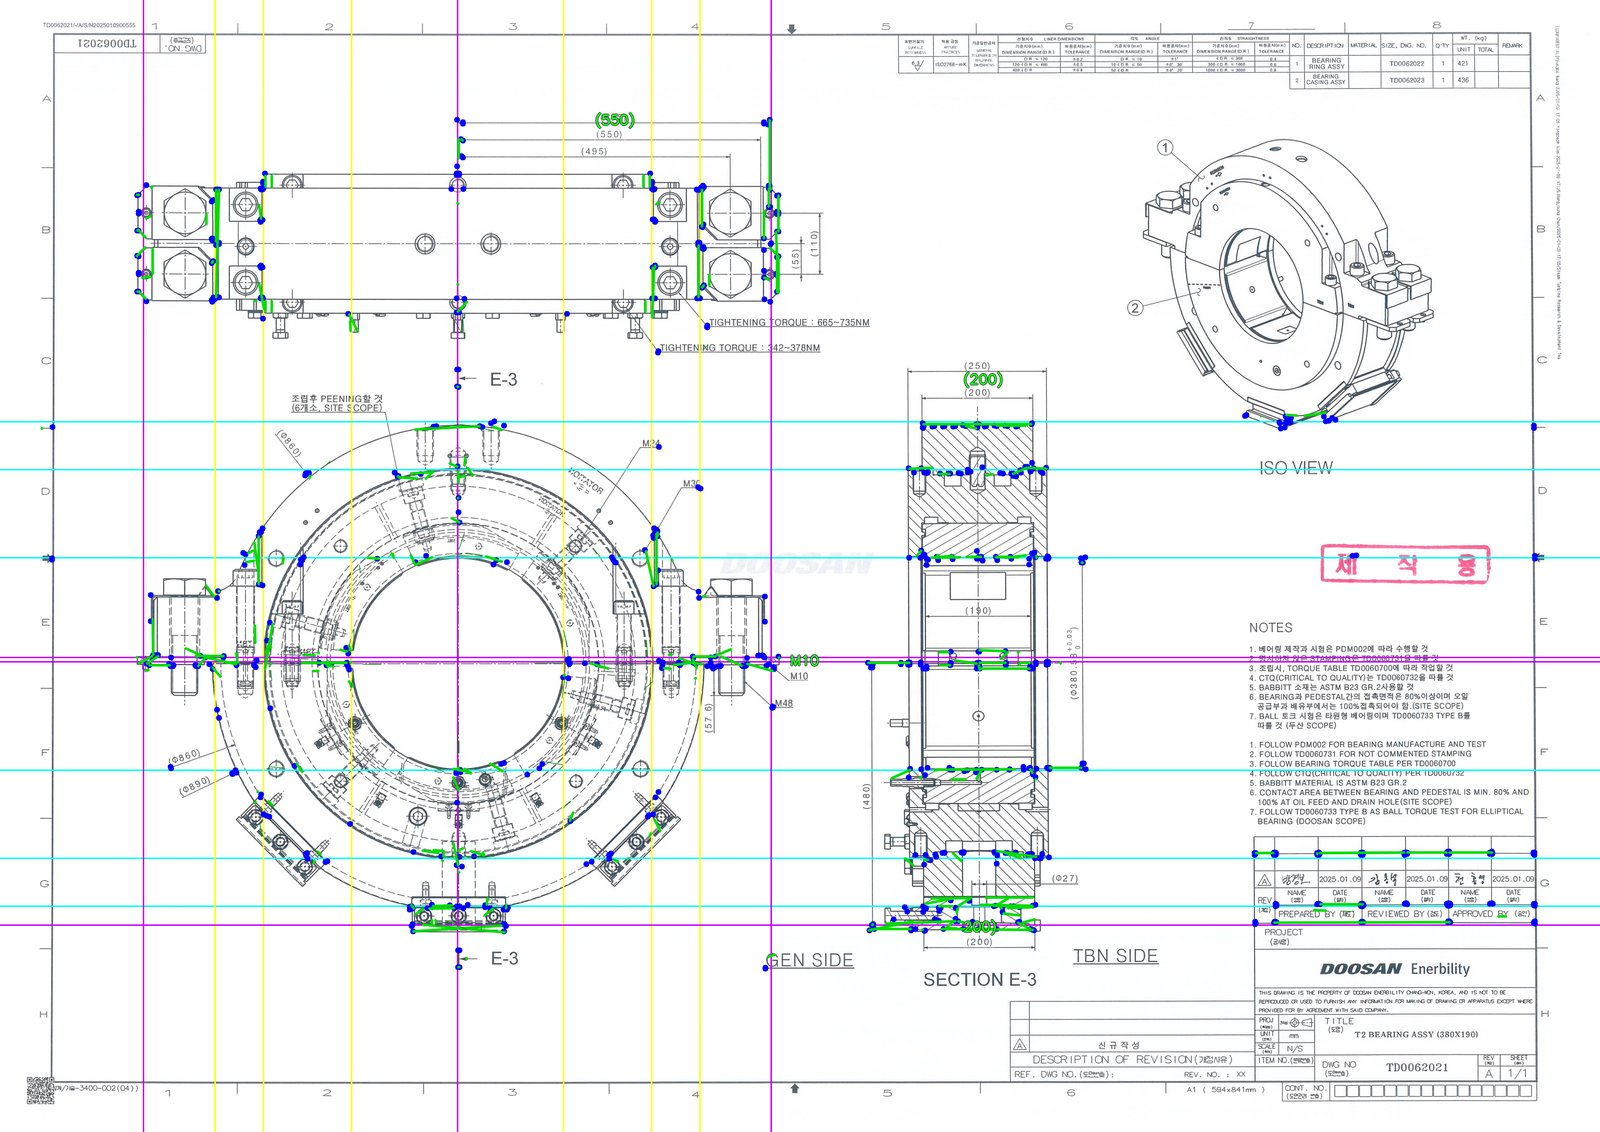
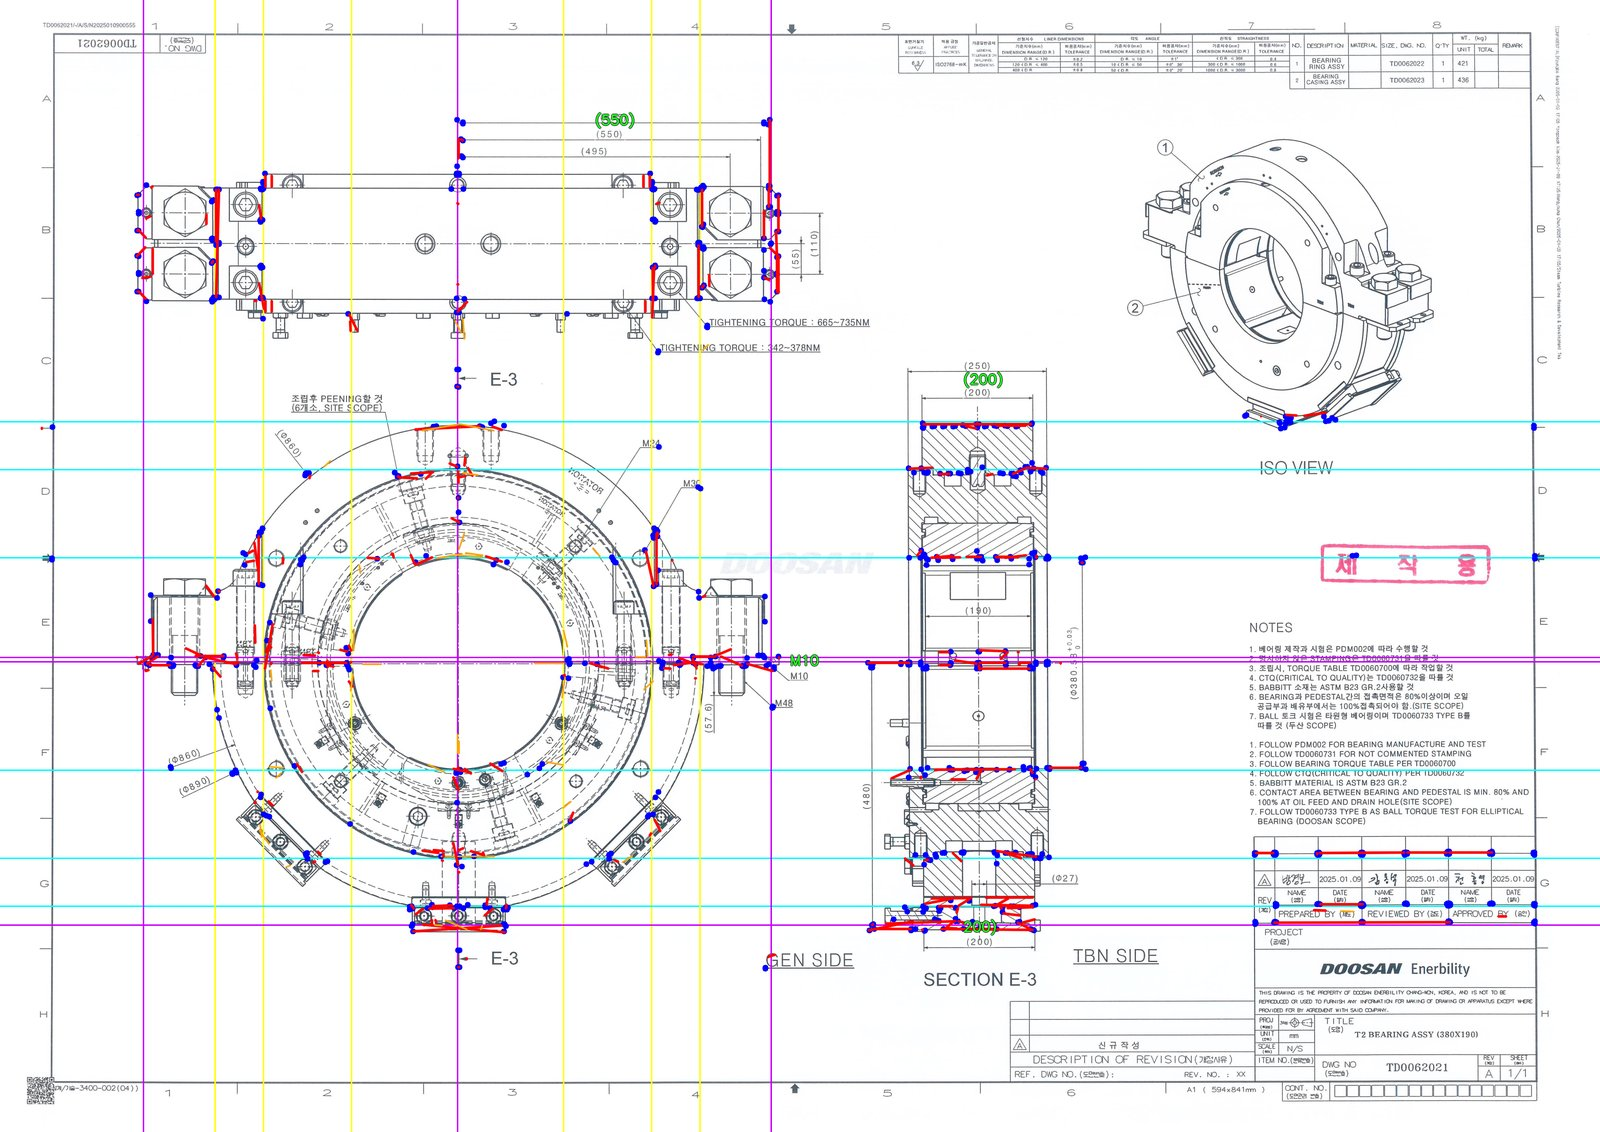
Adjust S08 line detector overlay styling

diff --git a/blueprint-ai-bom/scripts/s08_cardinal_v3_ocr.py b/blueprint-ai-bom/scripts/s08_cardinal_v3_ocr.py
@@ -44,8 +44,10 @@ PROJECTION_AXIS_TOLERANCE = 20.0
 LINE_KEY_COORD_BIN = 10.0
 LINE_KEY_SPAN_BIN = 20.0
 
-CONNECTED_LINE_COLOR = (0, 140, 0)
-PAIR_LINE_COLOR = (0, 220, 0)
+CONNECTED_LINE_COLOR = (0, 165, 255)
+PAIR_LINE_COLOR = (0, 0, 255)
+CONNECTED_LINE_THICKNESS = 2
+PAIR_LINE_THICKNESS = 3
 OCR_BOX_COLOR = (255, 255, 255)
 OCR_TEXT_COLOR = (40, 255, 40)
 
@@ -421,7 +423,7 @@ def render_overlay(
         end_point = tuple(int(round(value)) for value in line["end_point_xy"])
         is_pair = line.get("start_match") is not None and line.get("end_match") is not None
         color = PAIR_LINE_COLOR if is_pair else CONNECTED_LINE_COLOR
-        thickness = 3 if is_pair else 1
+        thickness = PAIR_LINE_THICKNESS if is_pair else CONNECTED_LINE_THICKNESS
         cv2.line(canvas, start_point, end_point, color, thickness, cv2.LINE_AA)
 
     label_font_scale = max(0.45, min(width, height) / 2500.0)
